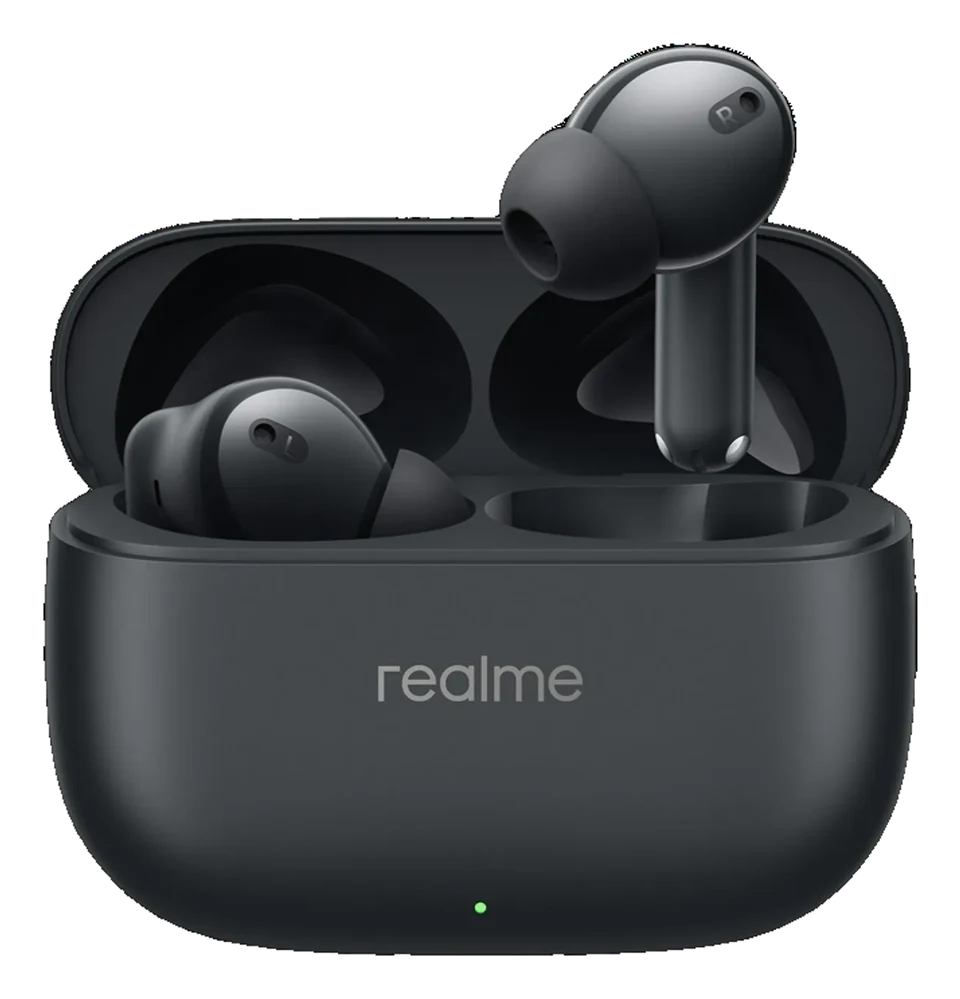
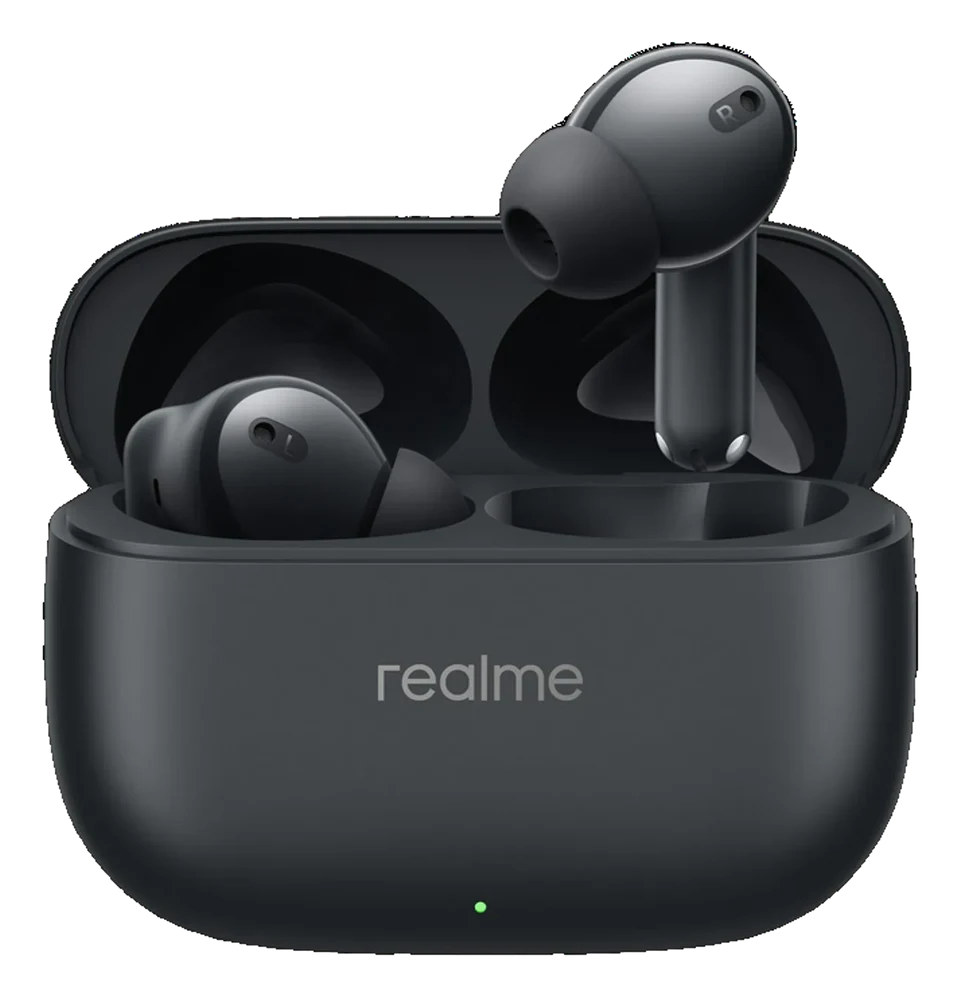
Home hero: cleaner floating audio cutouts
The cutout edge is pulled in by about a pixel so no light fringe of
backdrop rides along the outline, the Hi-Res badges printed beside the
boAt Airdopes 800 are dropped, and the white realme T310, which keys
badly off a near-white backdrop, no longer floats in the hero. The
remaining seven audio cutouts are clean at 960 px.

Claude-Session: https://claude.ai/code/session_01Ro9QpiNynjmpoQXR5fsrNA

diff --git a/apps/storefront/src/lib/catalog/gadgets.ts b/apps/storefront/src/lib/catalog/gadgets.ts
@@ -176,7 +176,7 @@ const AUDIO: readonly GadgetEntry[] = [
     warrantyMonths: ONE_YEAR,
     photos: {
       id: 'boat-alpha-gen2',
-      cut: { w: 1440, h: 1402 },
+      cut: { w: 872, h: 1293 },
       gallery: ['Midnight Black', 'Ocean Blue', 'boAt Signature Sound', 'Features', '45 hours of playback', 'Quad mics with ENx', 'ASAP charge'],
       heroByOption: { 'midnight-black': 0, 'ocean-blue': 1 },
     },
@@ -310,7 +310,7 @@ const AUDIO: readonly GadgetEntry[] = [
     warrantyMonths: ONE_YEAR,
     photos: {
       id: 'boat-219',
-      cut: { w: 1351, h: 1424 },
+      cut: { w: 1346, h: 1423 },
       gallery: ['Carbon Black', 'Four mics with ENx', 'IPX4 and instant pairing', 'BEAST mode low latency', '13 mm drivers', '40 hours of playback', 'Features'],
     },
   },
@@ -343,7 +343,7 @@ const AUDIO: readonly GadgetEntry[] = [
     warrantyMonths: ONE_YEAR,
     photos: {
       id: 'boat-800-hidef',
-      cut: { w: 1440, h: 1423 },
+      cut: { w: 960, h: 933 },
       gallery: ['Graphite Grey', 'Features', 'Hi-Res Audio with LDAC', 'boAt Signature Sound', 'AI ENx clear calls', 'Multipoint connectivity', '40 hours of playback'],
     },
   },
@@ -378,7 +378,7 @@ const AUDIO: readonly GadgetEntry[] = [
     warrantyMonths: ONE_YEAR,
     photos: {
       id: 'realme-t200',
-      cut: { w: 1320, h: 1373 },
+      cut: { w: 1318, h: 1369 },
       gallery: ['Black', 'White', 'Hi-Res certified'],
       heroByOption: { black: 0, white: 1 },
     },
@@ -475,7 +475,6 @@ const AUDIO: readonly GadgetEntry[] = [
     warrantyMonths: ONE_YEAR,
     photos: {
       id: 'realme-t310',
-      cut: { w: 1338, h: 1249 },
       gallery: ['White', 'Agile White', '360 degree spatial audio'],
       heroByOption: { white: 0 },
     },
@@ -509,7 +508,7 @@ const AUDIO: readonly GadgetEntry[] = [
     warrantyMonths: ONE_YEAR,
     photos: {
       id: 'realme-air-7',
-      cut: { w: 1235, h: 1340 },
+      cut: { w: 1232, h: 1337 },
       gallery: ['Slate Grey', 'Slate Grey finish'],
       heroByOption: { black: 0 },
     },
@@ -542,7 +541,7 @@ const AUDIO: readonly GadgetEntry[] = [
     warrantyMonths: ONE_YEAR,
     photos: {
       id: 'boat-rockerz-110',
-      cut: { w: 1406, h: 1290 },
+      cut: { w: 1403, h: 1286 },
       gallery: ['Active Black', '40 hours of playback', 'ENx clear calls', 'BEAST mode low latency', 'boAt Signature Sound', 'Features', 'Also in Deep Purple'],
     },
   },
@@ -574,7 +573,7 @@ const AUDIO: readonly GadgetEntry[] = [
     warrantyMonths: ONE_YEAR,
     photos: {
       id: 'boat-rockerz-235-pro',
-      cut: { w: 1026, h: 1332 },
+      cut: { w: 1024, h: 1328 },
       gallery: ['Grey', 'Features', 'BEAST mode low latency', 'Vibration call alert', 'ASAP charge', 'Also in Black', 'Also in Blue'],
     },
   },
